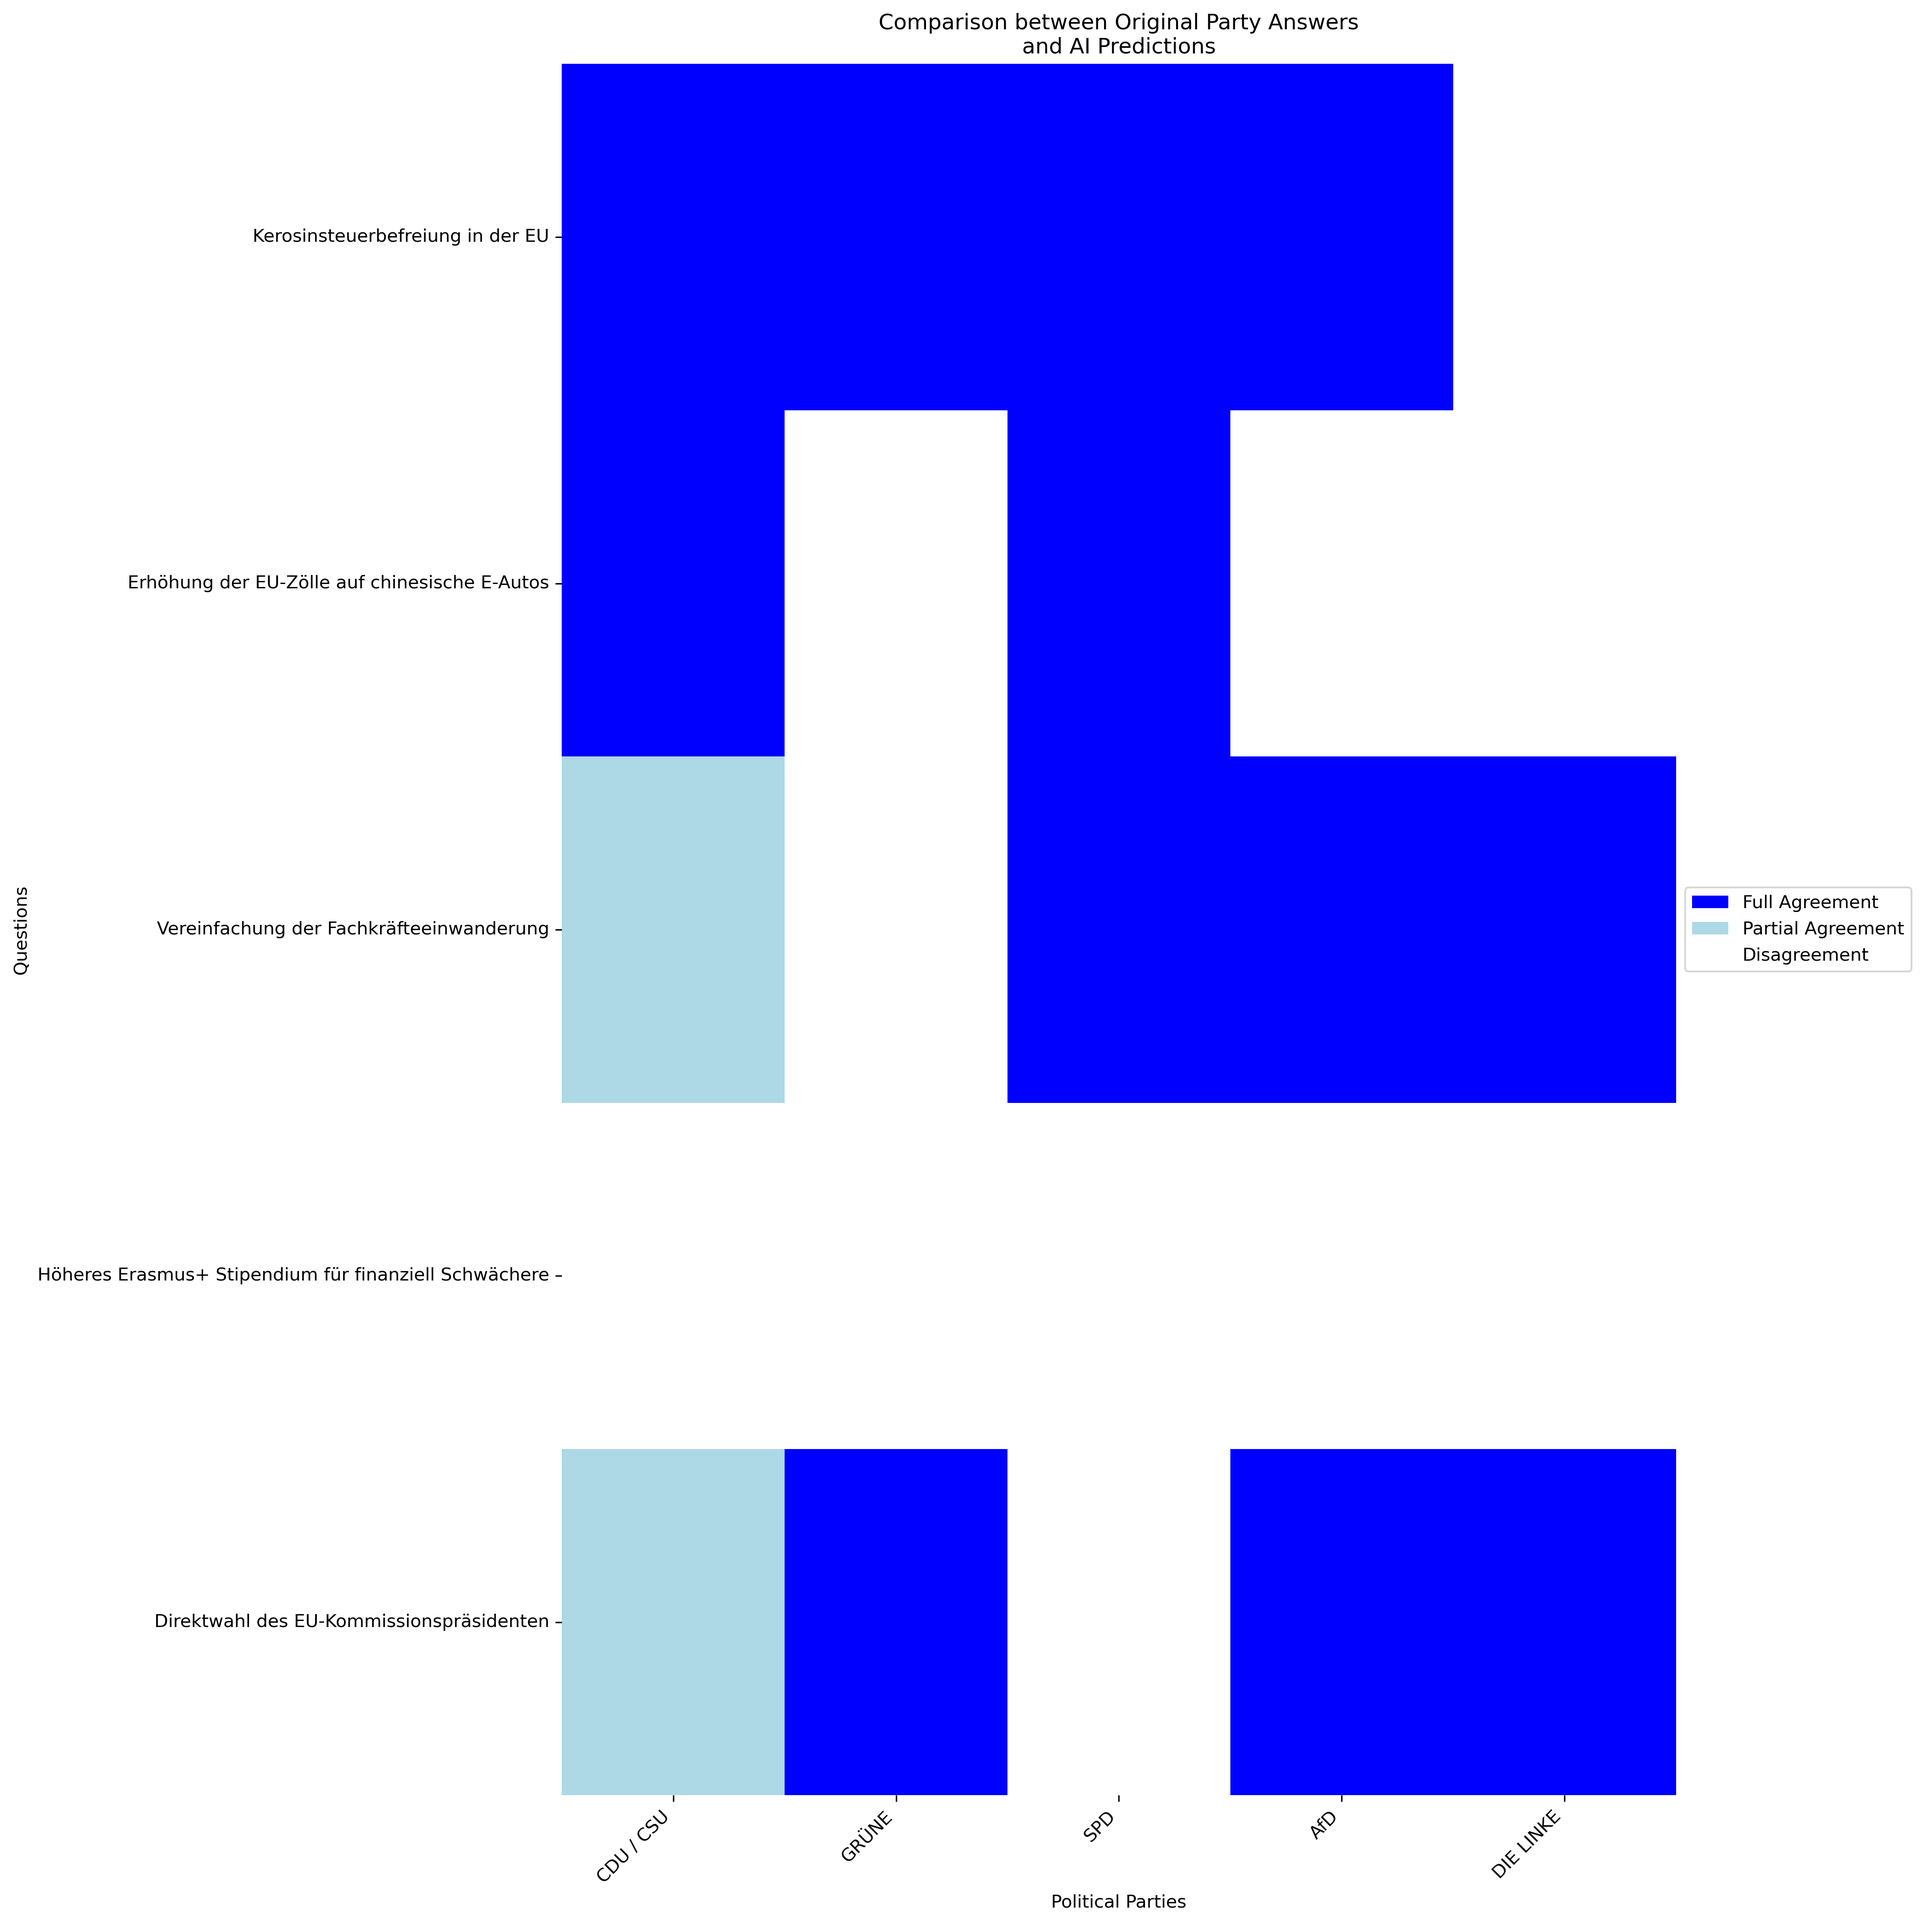
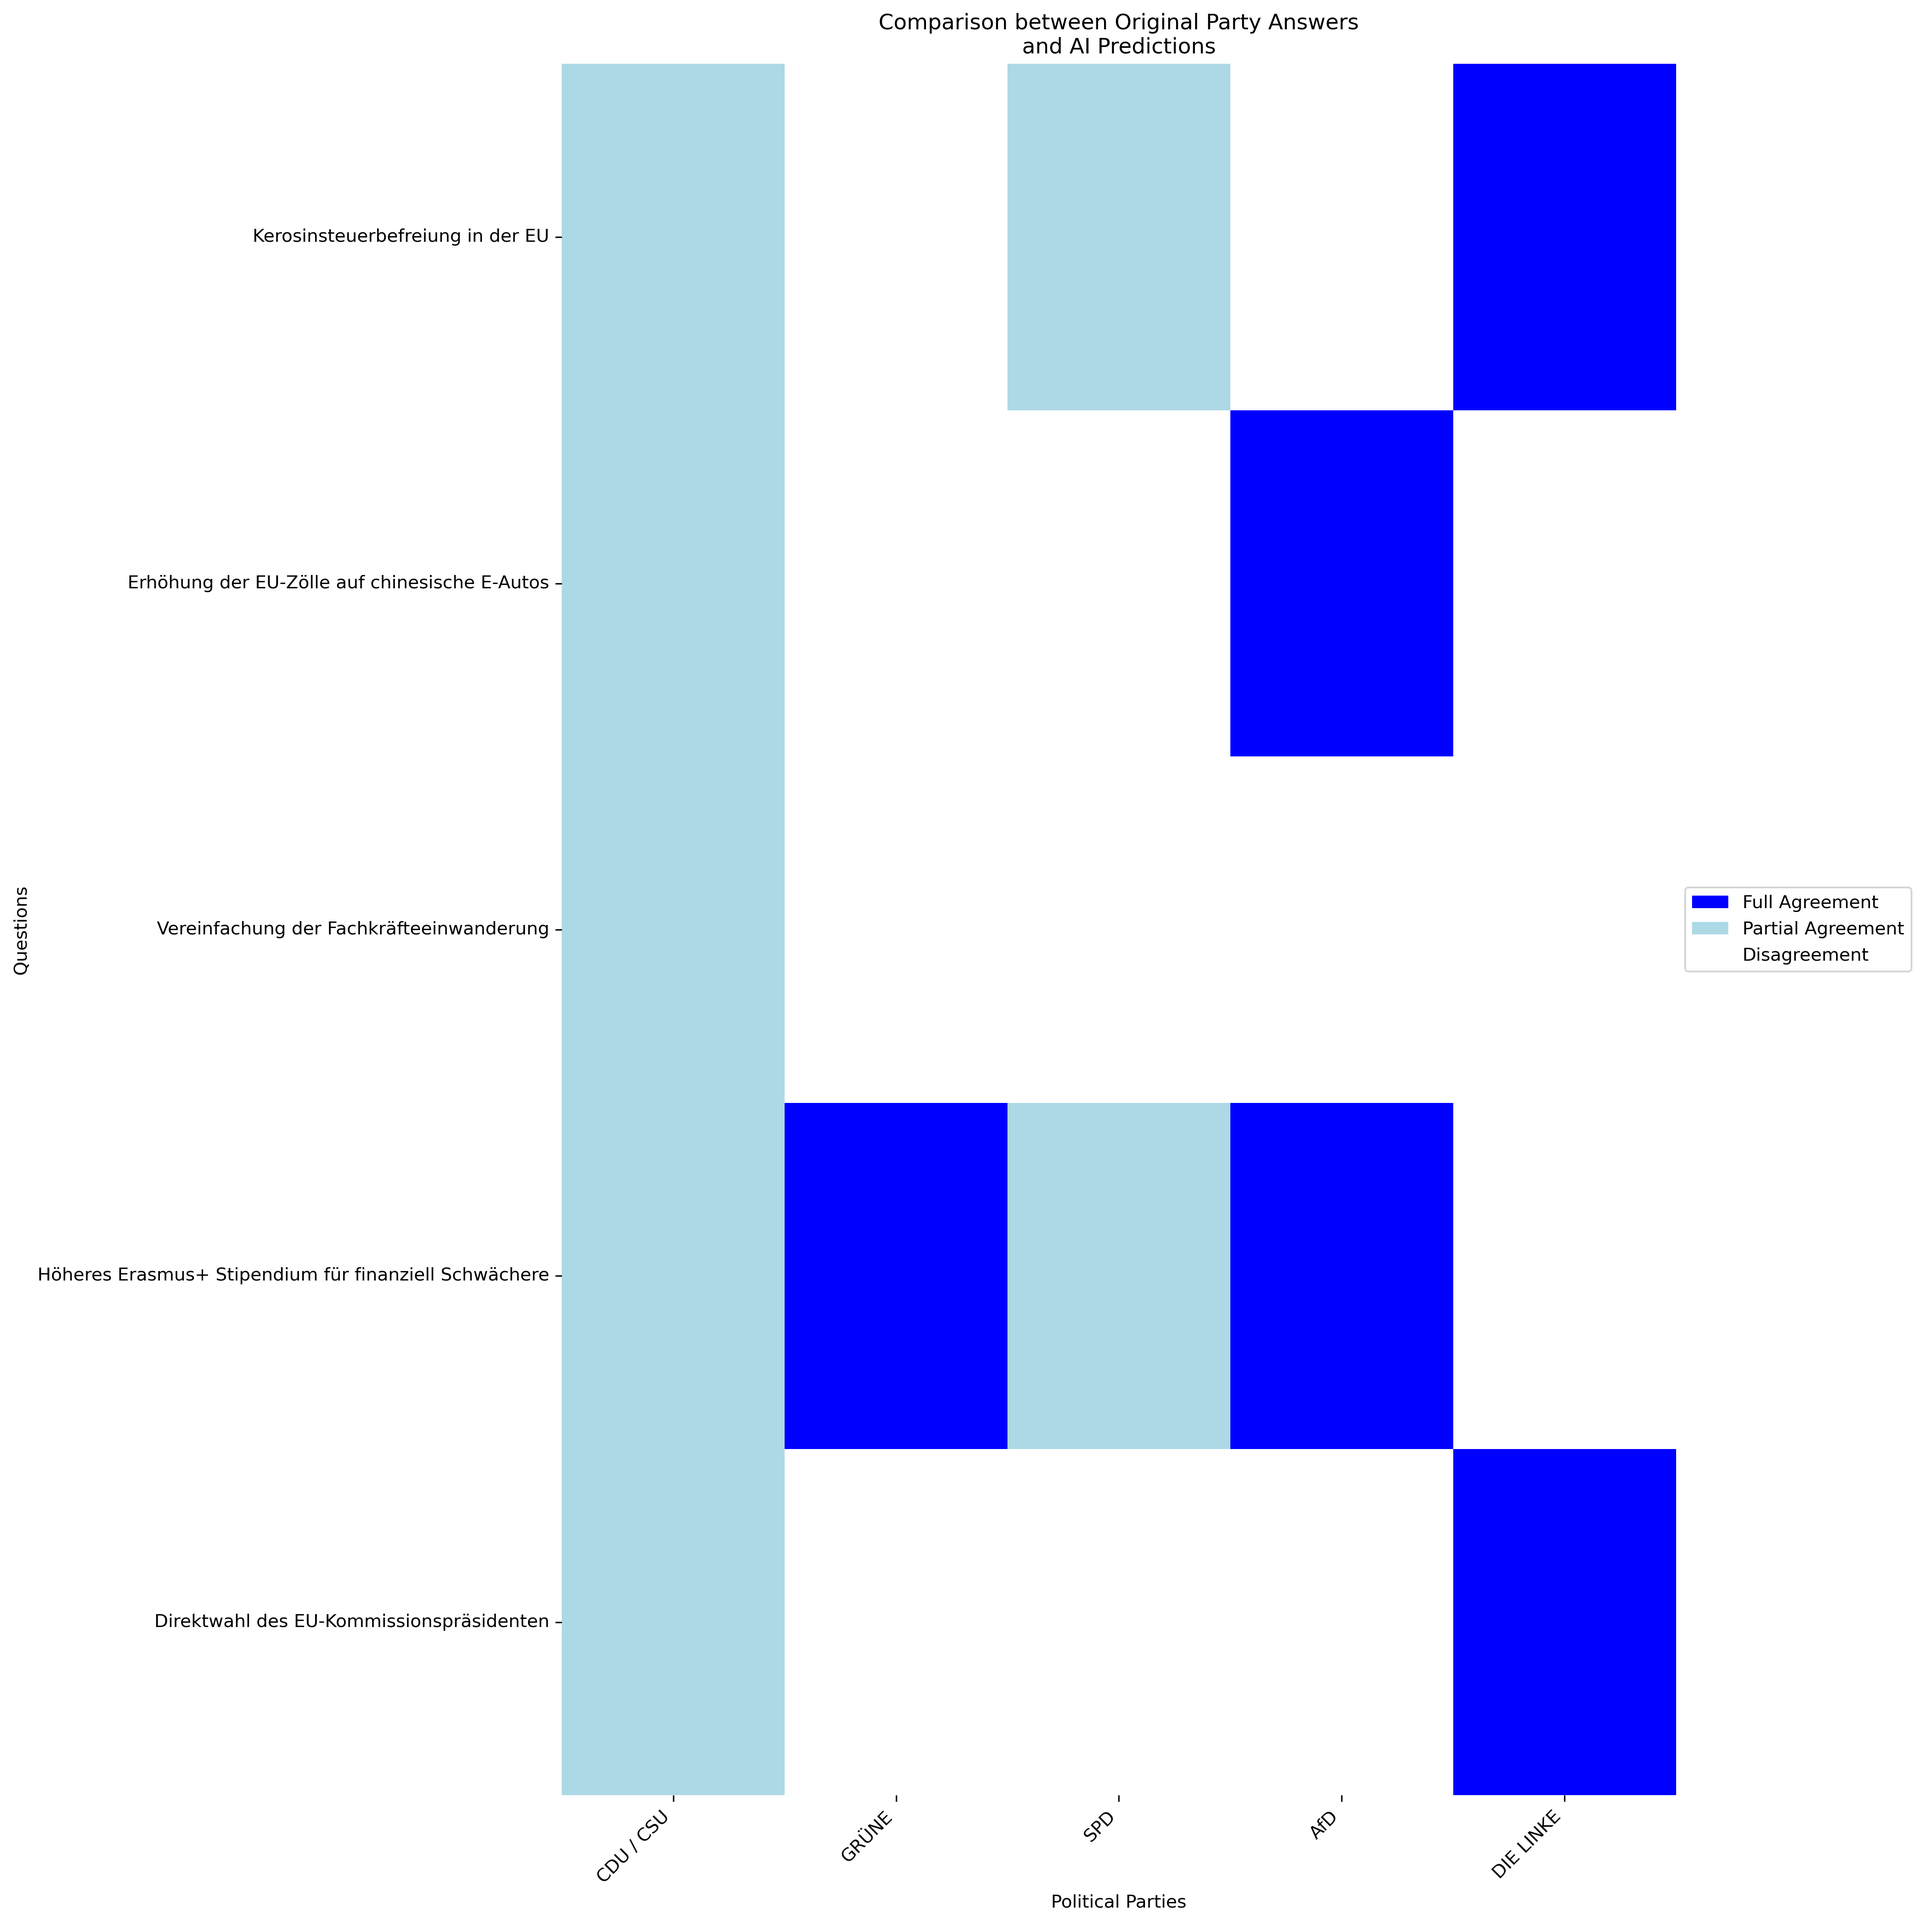
last modifications

diff --git a/src/gpt_interface.py b/src/gpt_interface.py
@@ -1,15 +1,17 @@
 import json
 import time
 import numpy as np
-
-from datetime import datetime
+import requests
+import os
 from pathlib import Path
+from datetime import datetime
 from config import openai_client, modelspec, cutoff_parties, cutoff_questions, is_rag_context
 from data_processing import SpecsOfData, convert_answer_to_number
 
-from llama_index.core import StorageContext, load_index_from_storage
+from llama_index.core import StorageContext, load_index_from_storage, SimpleDirectoryReader, VectorStoreIndex
 import multiprocessing as mp
 from functools import partial
+import tempfile
 
 
 # Load the index from storage
@@ -221,5 +223,153 @@ def execute_calc2(filepath):
     print()  # New line after progress bar completes
     # Save the matrix to CSV
     np.savetxt("results_rag.csv", answer_matrix, delimiter=",")
+    
+    return answer_matrix
+
+def download_pdf(url, party_name):
+    """Download PDF from URL and save it to a temporary directory."""
+    try:
+        response = requests.get(url)
+        response.raise_for_status()
+        
+        # Create temp directory if it doesn't exist
+        temp_dir = Path("temp_manifestos")
+        temp_dir.mkdir(exist_ok=True)
+        
+        # Save PDF
+        pdf_path = temp_dir / f"{party_name}.pdf"
+        with open(pdf_path, "wb") as f:
+            f.write(response.content)
+        
+        return str(pdf_path)
+    except Exception as e:
+        print(f"Error downloading PDF for {party_name}: {e}")
+        return None
+
+def create_party_index(pdf_path):
+    """Create RAG index for a party's manifesto."""
+    try:
+        documents = SimpleDirectoryReader(input_files=[pdf_path]).load_data()
+        index = VectorStoreIndex.from_documents(documents)
+        return index
+    except Exception as e:
+        print(f"Error creating index for {pdf_path}: {e}")
+        return None
+
+def process_question_with_party_rag(args):
+    """Process a question using party-specific RAG context."""
+    i, j, filepath, country, party_index = args
+    try:
+        if party_index is None:
+            return (i, j, {})
+            
+        query_engine = party_index.as_query_engine(
+            similarity_top_k=2,
+            response_mode="tree_summarize"
+        )
+        
+        message2, behaviour2 = create_message(filepath)
+        question = message2[j][i].replace("question: ", "")
+        
+        llm_response = query_engine.query(question)
+        context = str(llm_response)
+        source_nodes = llm_response.source_nodes
+
+        print("context", context)
+        
+        detailed_context = context + "\n\nAdditional relevant information:\n"
+        for idx, node in enumerate(source_nodes, 1):
+            detailed_context += f"\nSource {idx}:\n{node.node.text}\n"
+        
+        messages = [
+            {"role": "system", "content": behaviour2[j][i] + f"\nBase your answer on the provided party manifesto context:\n{detailed_context}"},
+            {"role": "user", "content": message2[j][i]},
+        ]
+
+        response = openai_client.chat.completions.create(
+            model=modelspec,
+            messages=messages,
+            temperature=0,
+            max_tokens=200,
+            top_p=0.1
+        )
+
+        response_content = response.choices[0].message.content.replace('```json', '').replace('```', '')
+        return (i, j, json.loads(response_content))
+    except Exception as e:
+        print(f"Error processing question: {e}")
+        return (i, j, {})
+
+def execute_calc_with_manifestos(filepath):
+    # Load party links
+    with open('parties_with_links.json', 'r', encoding='utf-8') as f:
+        party_links = json.load(f)
+    
+    country, party_names_length, num_unique_questions, data_Party, party_names, full_party_names, unique_questions, party_answers = SpecsOfData(filepath)
+    
+    # Apply cutoffs
+    if cutoff_parties > 0:
+        party_names_length = min(cutoff_parties, party_names_length)
+        party_names = party_names[:party_names_length]
+    
+    if cutoff_questions > 0:
+        num_unique_questions = min(cutoff_questions, num_unique_questions)
+        unique_questions = unique_questions[:num_unique_questions]
+    
+    # Download PDFs and create indices
+    party_indices = {}
+    for party_name, url in party_links.items():
+        if party_name in party_names:
+            pdf_path = download_pdf(url, party_name)
+            if pdf_path:
+                party_indices[party_name] = create_party_index(pdf_path)
+    
+    results = []
+    answer_matrix = np.zeros((num_unique_questions, party_names_length))
+    
+    # Prepare arguments for parallel processing
+    args_list = [
+        (i, j, filepath, country, party_indices.get(party_names[i]))
+        for i in range(party_names_length)
+        for j in range(num_unique_questions)
+    ]
+    
+    # Calculate total iterations for progress bar
+    total_iterations = len(args_list)
+    
+    # Initialize the process pool
+    num_processes = mp.cpu_count() - 1
+    pool = mp.Pool(processes=num_processes)
+    
+    # Process questions in parallel with progress tracking
+    for idx, (i, j, response) in enumerate(pool.imap_unordered(process_question_with_party_rag, args_list)):
+        results.append({
+            "Party_Name": party_names[i],
+            "Question_Label": unique_questions[j],
+            "Answer": response
+        })
+        
+        try:
+            answer_matrix[j][i] = convert_answer_to_number(response["AI_answer"])
+        except:
+            print(f"Error converting answer to number: {response}")
+            answer_matrix[j][i] = 0
+        
+        progress = int(50 * (idx + 1) / total_iterations)
+        print(f"\rProgress: [{'=' * progress}{' ' * (50-progress)}] {idx + 1}/{total_iterations}", end='')
+    
+    # Cleanup
+    pool.close()
+    pool.join()
+    
+    # Clean up temporary files
+    temp_dir = Path("temp_manifestos")
+    if temp_dir.exists():
+        for file in temp_dir.glob("*.pdf"):
+            file.unlink()
+        temp_dir.rmdir()
+    
+    print()  # New line after progress bar completes
+    np.savetxt("results_party_manifestos.csv", answer_matrix, delimiter=",")
     
     return answer_matrix

diff --git a/src/main.py b/src/main.py
@@ -1,5 +1,5 @@
 from data_processing import load_and_process_data
-from gpt_interface import execute_calc2
+from gpt_interface import execute_calc_with_manifestos
 from visualization import create_comparison_plot
 import numpy as np
 import json
@@ -10,7 +10,7 @@ def main():
     
     # Step 1: Generate AI answers
     print("Generating AI answers...")
-    ai_matrix = execute_calc2(json_file_path)
+    ai_matrix = execute_calc_with_manifestos(json_file_path)
     print("AI answers generated and saved to 'results.json' and 'results.csv'")
     
     # Step 2: Load and process both original and AI data
